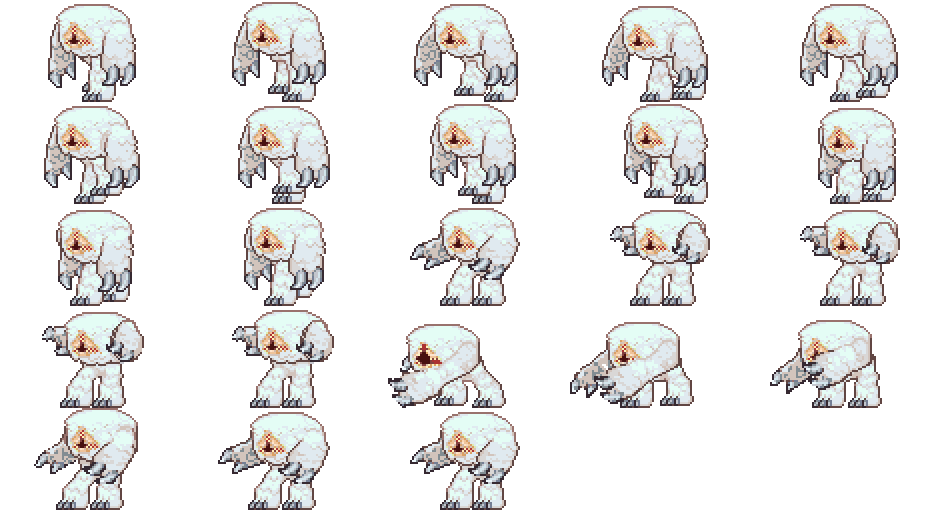
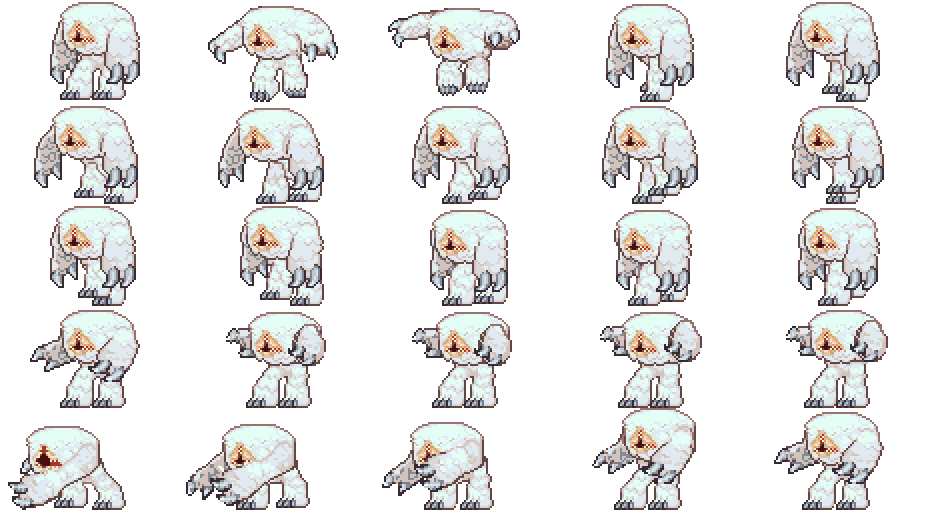
feat: Add jump & fall frames to 'Abominable'.

diff --git a/Content/Conflux/Abominable.cs b/Content/Conflux/Abominable.cs
@@ -46,31 +46,11 @@ internal sealed class Abominable : ModNPC
 	private const ushort MinAttackCooldown = (ushort)(1.00f * 60);
 	private const ushort MaxAttackCooldown = (ushort)(1.60f * 60);
 
-	private static readonly SpriteAnimation animIdle = new()
-	{
-		Id = "idle",
-		Frames = [9],
-	};
-	private static readonly SpriteAnimation animWalk = new()
-	{
-		Id = "walk",
-		Frames = [0, 1, 2, 3, 4, 5, 6, 7, 8, 9, 10, 11],
-		Speed = 5f,
-	};
-	private static readonly SpriteAnimation animJump = new()
-	{
-		Id = "jump",
-		Frames = [14, 15],
-		Speed = 4f,
-		Loop = true,
-	};
-	private static readonly SpriteAnimation animAttack = new()
-	{
-		Id = "attack",
-		Frames = [12, 13, 14, 15, 16, 17, 18, 19, 20, 21, 22],
-		Speed = 9f,
-		Loop = false,
-	};
+	private static readonly SpriteAnimation animIdle = new() { Id = "idle", Frames = [0] };
+	private static readonly SpriteAnimation animJump = new() { Id = "jump", Frames = [1] };
+	private static readonly SpriteAnimation animFall = new() { Id = "fall", Frames = [2] };
+	private static readonly SpriteAnimation animWalk = new() { Id = "walk", Frames = [3, 4, 5, 6, 7, 8, 9, 10, 11, 12, 13, 14], Speed = 5f };
+	private static readonly SpriteAnimation animAttack = new() { Id = "attack", Frames = [15, 16, 17, 18, 19, 20, 21, 22, 23, 24], Speed = 9f, Loop = false };
 
 	private AttackInstance? attack;
 	private Footsteps footsteps = new();
@@ -368,14 +348,15 @@ internal sealed class Abominable : ModNPC
 	{
 		const float MinWalkSpeed = 1.5f;
 
-		Vector2 effectiveVelocity = NPC.position - NPC.oldPosition;
+		Vector2 vel = NPC.position - NPC.oldPosition;
 		SpriteAnimation current = ctx.Animations.Current;
 		SpriteAnimation? targetAnimation = current switch
 		{
 			_ when AttackProgress != 0 => animAttack,
-			_ when MathF.Abs(effectiveVelocity.Y) > 5f => animJump,
-			_ when effectiveVelocity.Y == 0f && Math.Abs(effectiveVelocity.X) >= MinWalkSpeed => animWalk with { Speed = effectiveVelocity.X * animWalk.Speed * NPC.spriteDirection },
-			_ when effectiveVelocity.Y == 0f && Math.Abs(effectiveVelocity.X) <= MinWalkSpeed => animIdle,
+			_ when vel.Y < 0f => animJump,
+			_ when vel.Y > 0f => animFall,
+			_ when vel.Y == 0f && Math.Abs(vel.X) >= MinWalkSpeed => animWalk with { Speed = vel.X * animWalk.Speed * NPC.spriteDirection },
+			_ when vel.Y == 0f && Math.Abs(vel.X) <= MinWalkSpeed => animIdle,
 			_ => null,
 		};
 
